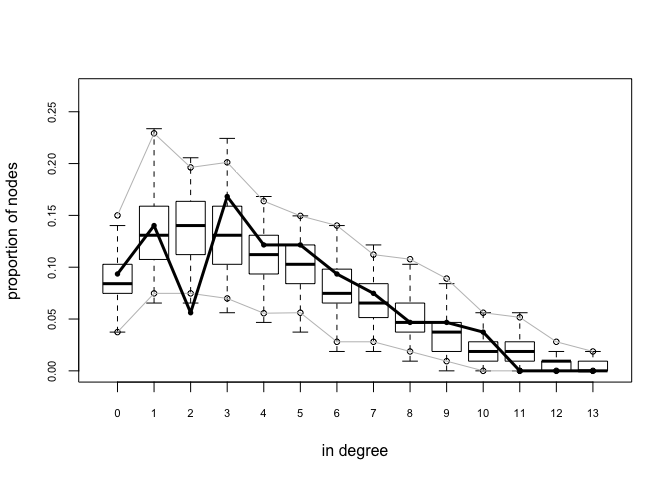
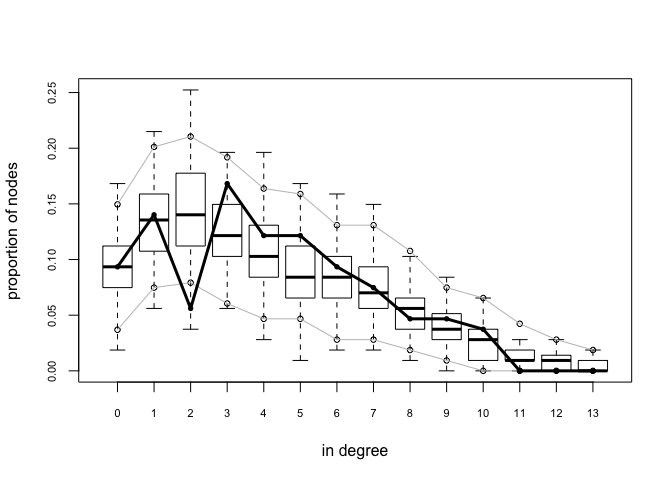
Trial research markdown

diff --git a/R/trial_research_sample.md b/R/trial_research_sample.md
@@ -1,6 +1,6 @@
-Tria research qualifying paper - sample data
+Trial research qualifying paper - sample data
 ================
-rpm
+Richard Paquin Morel
 1/30/2018
 
 ## Background and data
@@ -158,23 +158,23 @@ summary(model)
     ## Formula:   faux.desert.high ~ edges + mutual + intransitive + gwesp(0.1, 
     ##     T) + gwdsp(0.1, T) + nodematch("grade")
     ## 
-    ## Iterations:  3 out of 20 
+    ## Iterations:  2 out of 20 
     ## 
     ## Monte Carlo MLE Results:
     ##                 Estimate Std. Error MCMC % p-value    
-    ## edges           -4.57921    0.16894      0 < 1e-04 ***
-    ## mutual           1.69416    0.20098      0 < 1e-04 ***
-    ## intransitive     0.03814    0.01724      0 0.02697 *  
-    ## gwesp.fixed.0.1  1.21346    0.09940      0 < 1e-04 ***
-    ## gwdsp.fixed.0.1 -0.08582    0.02721      0 0.00161 ** 
-    ## nodematch.grade  1.31586    0.11630      0 < 1e-04 ***
+    ## edges           -4.56079    0.17959      0 < 1e-04 ***
+    ## mutual           1.69710    0.19484      0 < 1e-04 ***
+    ## intransitive     0.03869    0.01960      0 0.04839 *  
+    ## gwesp.fixed.0.1  1.21360    0.10234      0 < 1e-04 ***
+    ## gwdsp.fixed.0.1 -0.08857    0.03018      0 0.00335 ** 
+    ## nodematch.grade  1.31333    0.12064      0 < 1e-04 ***
     ## ---
     ## Signif. codes:  0 '***' 0.001 '**' 0.01 '*' 0.05 '.' 0.1 ' ' 1
     ## 
     ##      Null Deviance: 15723  on 11342  degrees of freedom
-    ##  Residual Deviance:  2626  on 11336  degrees of freedom
+    ##  Residual Deviance:  2625  on 11336  degrees of freedom
     ##  
-    ## AIC: 2638    BIC: 2682    (Smaller is better.)
+    ## AIC: 2637    BIC: 2681    (Smaller is better.)
 
 After specifying and estimating the model, it is critical to assess its
 fit to the data and to diagnose any issues in the Markov Chain Monte
@@ -229,7 +229,7 @@ distribution.
 ecdf(model_tridist)(summary(faux.desert.high ~ triangle))
 ```
 
-    ## [1] 0.386
+    ## [1] 0.085
 
 Now I can proceed with the brokerage test. Here’s the basic process:
 
@@ -288,12 +288,12 @@ head(dist[[1]])
     ## # Groups:   grade [1]
     ##     w_I   w_O  b_IO  b_OI   b_O     t grade
     ##   <dbl> <dbl> <dbl> <dbl> <dbl> <dbl> <int>
-    ## 1  4.00     0  0     0     0     4.00     7
-    ## 2  9.00     0  0     0     0     9.00     7
-    ## 3 24.0      0 27.0   9.00  7.00 67.0      7
-    ## 4 19.0      0 18.0   0     0    37.0      7
-    ## 5  3.00     0  2.00  5.00  2.00 12.0      7
-    ## 6 79.0      0 10.0   0     0    89.0      7
+    ## 1 16.0      0  0     0        0 16.0      7
+    ## 2  5.00     0  4.00  0        0  9.00     7
+    ## 3 23.0      0  0    15.0      0 38.0      7
+    ## 4 76.0      0  0    11.0      0 87.0      7
+    ## 5 13.0      0  4.00  0        0 17.0      7
+    ## 6 32.0      0  8.00  6.00     0 46.0      7
 
 ``` r
 head(obs[[1]])
@@ -378,12 +378,12 @@ head(b_scores)
 ```
 
     ##   id Coordinator Consultant Representative Gatekeeper Liaison Total
-    ## 1  7       0.095          1          0.124      1.000   1.000 0.145
-    ## 2 12       0.179          1          0.136      1.000   1.000 0.229
-    ## 3 15       0.383          1          1.000      0.401   1.000 0.511
-    ## 4 19       0.655          1          0.567      0.401   0.374 0.621
-    ## 5 24       0.603          1          1.000      1.000   1.000 0.777
-    ## 6 34       0.236          1          0.093      0.471   1.000 0.201
+    ## 1  7       0.128          1          0.112      1.000   1.000 0.177
+    ## 2 12       0.219          1          0.123      1.000   1.000 0.268
+    ## 3 15       0.429          1          1.000      0.476   1.000 0.562
+    ## 4 19       0.719          1          0.568      0.476   0.369 0.678
+    ## 5 24       0.668          1          1.000      1.000   1.000 0.840
+    ## 6 34       0.282          1          0.085      0.515   1.000 0.242
 
 So those are all percentile ranks for each node’s brokerage score in
 each role. We have to choose an alpha as the cutoff for significance. I
@@ -468,7 +468,7 @@ brokers %>%
     ## # A tibble: 2 x 3
     ##   broker mean_range sd_range
     ##    <dbl>      <dbl>    <dbl>
-    ## 1   0         0.452    0.229
-    ## 2   1.00      0.587    0.226
+    ## 1   0         0.456    0.233
+    ## 2   1.00      0.584    0.207
 
 Indeed the brokers have greater mean range scores.
